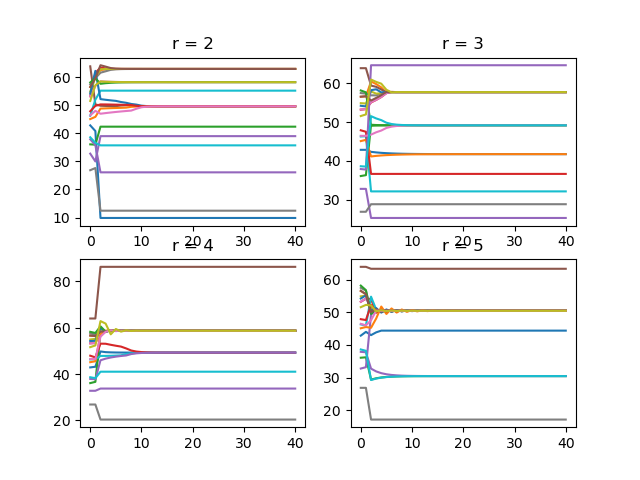
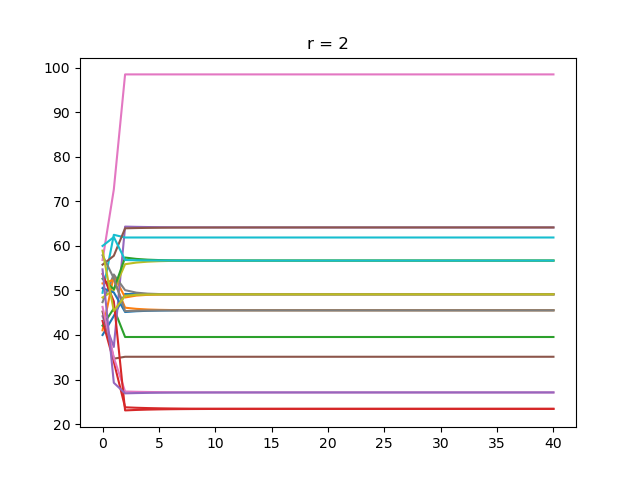
update

diff --git a/simulation_switch_topology.py b/simulation_switch_topology.py
@@ -24,126 +24,37 @@ import os, time, random
 
 
 
-def simulation_pic12(k = 40,n = 20,r = 2,delta = 1):
+def simulation_pic12(k = 40,n = 20,r = 2,delta = 0,save = True):
 
     X = np.arange(0, k + 1)
     Y = []
-    m = MAS_switch_topology(delta=0, number=n, r=r)
-
-    figure, ax = plt.subplots(2, 2)
-
-    Y.append(m.states.tolist())
-    for i in trange(0, k):
-        m.states_update()
-        Y.append(m.states.tolist())
-    Y = np.array(Y).T
-    ax[0][0].set_title('r = 2')
-    for i in range(0, n):
-        ax[0][0].plot(X, Y[i])
+    m = MAS_switch_topology(delta=delta, number=n, r=r)
+    m.initial_states =np.array([41.8309021  ,57.64950439 ,55.37732576 ,59.20001792, 57.7233624,  40.33882689,
+ 57.84884924, 48.73382393, 42.93908053 ,53.11672422, 56.06069219, 40.12895605,
+ 44.62407166, 47.55277699, 50.61738483, 40.01444508, 56.25899311, 49.84214835,
+ 50.72414305 ,41.86621181])
     m.reset()
-    Y = []
-
-    m.r = 3
-
-    Y.append(m.states.tolist())
-    for i in trange(0, k):
-        m.states_update()
-        Y.append(m.states.tolist())
-    Y = np.array(Y).T
-    ax[0][1].set_title('r = 3')
-    for i in range(0, n):
-        ax[0][1].plot(X, Y[i])
-    m.reset()
-    Y = []
-
     m.r = 4
+    convergence = 0
 
     Y.append(m.states.tolist())
     for i in trange(0, k):
         m.states_update()
         Y.append(m.states.tolist())
+        if m.convergence():
+            convergence = i
     Y = np.array(Y).T
-    ax[1][0].set_title('r = 4')
+   # plt.title('r = 2')
     for i in range(0, n):
-        ax[1][0].plot(X, Y[i])
-    m.reset()
-    Y = []
+        plt.plot(X, Y[i])
 
-    m.r = 5
-
-    Y.append(m.states.tolist())
-    for i in trange(0, k):
-        m.states_update()
-        Y.append(m.states.tolist())
-    Y = np.array(Y).T
-    ax[1][1].set_title('r = 5')
-    for i in range(0, n):
-        ax[1][1].plot(X, Y[i])
-    m.reset()
-    Y = []
-
-    plt.savefig('figure2/simulation1')
-    plt.show()
+    plt.vlines(convergence, 40, 60)
 
 
-    X = np.arange(0, k + 1)
-    Y = []
-    m.update_delta(delta=delta)
-    m.r = 2
 
-    figure, ax = plt.subplots(2, 2)
+    if save:
+        plt.savefig('figure2/simulation2b')
 
-    Y.append(m.states.tolist())
-    for i in trange(0, k):
-        m.states_update()
-        Y.append(m.states.tolist())
-    Y = np.array(Y).T
-    ax[0][0].set_title('r = 2')
-    for i in range(0, n):
-        ax[0][0].plot(X, Y[i])
-    m.reset()
-    Y = []
-
-    m.r = 3
-
-    Y.append(m.states.tolist())
-    for i in trange(0, k):
-        m.states_update()
-        Y.append(m.states.tolist())
-    Y = np.array(Y).T
-    ax[0][1].set_title('r = 3')
-    for i in range(0, n):
-        ax[0][1].plot(X, Y[i])
-    m.reset()
-    Y = []
-
-    m.r = 4
-
-    Y.append(m.states.tolist())
-    for i in trange(0, k):
-        m.states_update()
-        Y.append(m.states.tolist())
-    Y = np.array(Y).T
-    ax[1][0].set_title('r = 4')
-    for i in range(0, n):
-        ax[1][0].plot(X, Y[i])
-    m.reset()
-    Y = []
-
-    m.r = 5
-
-    Y.append(m.states.tolist())
-    for i in trange(0, k):
-        m.states_update()
-        Y.append(m.states.tolist())
-    Y = np.array(Y).T
-    ax[1][1].set_title('r = 5')
-    for i in range(0, n):
-        ax[1][1].plot(X, Y[i])
-    m.reset()
-    Y = []
-
-    plt.savefig('figure2/simulation2')
     plt.show()
 
 def simulation_pic3b(precision=30, ave_n=200):
@@ -170,7 +81,7 @@ def simulation_pic3b(precision=30, ave_n=200):
     plt.show()
 
 
-def simulation_pic4a(k = 10000,repeat = 25):
+def simulation_pic4a(k = 10000,repeat = 25,save = True):
 
 
     convergence = 0
@@ -207,7 +118,10 @@ def simulation_pic4a(k = 10000,repeat = 25):
     ax.set_ylabel('$Var(θ∞)$')
     plt.scatter(x, y, s=80, facecolors='none', edgecolors='black')
     plt.grid()
-    plt.savefig('figure2/simulation3.jpg')
+    if save:
+        plt.savefig('figure2/simulation3.jpg')
+
+
 
     plt.show()
 
@@ -327,7 +241,7 @@ if __name__ == "__main__":
     print("----Start----")
 
 
-    simulation_7()
+    simulation_pic12(k =10,delta=0.1,save=False)
 
 
 

diff --git a/MAS_switch_topology.py b/MAS_switch_topology.py
@@ -22,6 +22,15 @@ from tqdm import trange
 from sklearn.cluster import DBSCAN
 from collections import Counter
 
+
+def normalization(data):
+    _range = np.max(data) - np.min(data)
+    if _range>1:
+        return (data) / _range
+    else:
+        return data
+
+
 def connected_gragh_generated(states,r,number):
     """
 
@@ -60,15 +69,21 @@ def eta_generated(b, number):
     for i in range(0, number):
         eta[i] = np.random.laplace(0, b[i], 1)
 
+    # eta = normalization(eta)
+
     return eta
 
 
+
+
 class MAS_switch_topology(object):
-    def __init__(self, r = 2,number=50, states=(50, 100), delta=1, epsilon=0.1, p_connect=0.1, s=1, alpha=0.000001):
+    def __init__(self, r = 2,number=20, states=(50, 100), delta=1, epsilon=0.1, p_connect=0.1, s=1, alpha=0.000001):
         self.number = number
-        self.r = r
-        self.states = np.random.normal(states[0], np.sqrt(states[1]), number)
+
+        self.states = np.random.uniform(40,60,self.number)
+        # self.states = np.linspace(40, 60, self.number)
         self.initial_states = self.states
+        self.r = self.suitable_r()
         self.delta = delta
         self.epsilon = epsilon * np.ones((number, 1))
         self.A_matrix = connected_gragh_generated(self.states,self.r,self.number)
@@ -83,8 +98,17 @@ class MAS_switch_topology(object):
         self.b = np.multiply(self.c, self.q ** self.k)
         self.eta = eta_generated(self.b, self.number)
         self.d_max = np.max(self.D_matrix)
-        self.h = random.uniform(0, 1 / self.d_max)
+        self.h = 1 / self.d_max
         self.initial_avg = self.average_value()
+
+    def suitable_r(self):
+        states = np.sort(self.initial_states)
+        min = 0
+
+        for i in range(0,self.number-2):
+            if states[i+1]-states[i]>min:
+                min = states[i+1]-states[i]
+        return min+1
 
     def update_delta(self,delta):
         self.delta = delta
@@ -133,7 +157,7 @@ class MAS_switch_topology(object):
     def states_update(self):
 
         self.states = self.states - self.h * np.dot(self.L_matrix, self.states + self.eta) + np.dot(self.S_matrix,self.eta)
-        self.b = np.multiply(self.c, self.q ** self.k)
+        self.b = np.multiply(self.c, self.q ** (self.k**4))
         self.eta = eta_generated(self.b, self.number)
         self.A_matrix = connected_gragh_generated(self.states, self.r,self.number)
         self.D_matrix = D_matrix_generated(self.A_matrix, self.number)
@@ -263,9 +287,17 @@ if __name__ == "__main__":
     print("----Start----")
 
     m = MAS_switch_topology()
+    print(m.eta)
+    m.states_update()
+    print(m.eta)
+    m.states_update()
+    print(m.eta)
+    m.states_update()
+    print(m.eta)
+    m.states_update()
 
 
-    print(m.setting_time())
+    print(m.suitable_r())
 
 
 

diff --git a/simulation.py b/simulation.py
@@ -76,7 +76,7 @@ def simulation_pic3b(precision=200, ave_n=200,save = True):
 
     plt.show()
 
-def simulation_pic4a(k = 100,repeat = 25):
+def simulation_pic4a(k = 100,repeat = 25,thresold = 0.01,save = True):
 
 
     convergence = 0
@@ -92,23 +92,31 @@ def simulation_pic4a(k = 100,repeat = 25):
             m.q = np.zeros(m.number)
             for i in range(0, k):
                 m.states_update()
-                if m.convergence(thresold=0.01) and convergence == 0:
+                if m.convergence(thresold=thresold) and convergence == 0:
                     diff = abs(m.average_value() - m.initial_states.mean())
-                    print(diff)
+
                     y.append(diff)
                     x.append(e)
                     convergence = 0
                     break
 
 
-    fig, ax = plt.subplots()
-    ax.set_xscale("log")
-    ax.set_yscale("log")
-    ax.set_xlabel('$\overline{\epsilon}$')
-    ax.set_ylabel('$θ∞-Ave(θ0)$')
-    plt.scatter(x, y, s=80, facecolors='none', edgecolors='black')
+
+    plt.figure(figsize=(10, 3))
+    plt.ylim(1e-4,1e2)
+
+    plt.xlabel('$\overline{\epsilon}$')
+    plt.ylabel('$θ∞-Ave(θ0)$')
+    plt.xscale("log")
+    plt.yscale("log")
+
+
     plt.grid()
-    plt.savefig('figure/simulation3.jpg')
+    plt.scatter(x, y, s=80, facecolors='none', edgecolors='black')
+
+    if save:
+        plt.savefig('figure/simulation3.jpg')
+
 
     plt.show()
 
@@ -221,7 +229,7 @@ def simulation_pic5():
 
 if __name__ == "__main__":
     print("----Start----")
-    simulation_pic3a()
+    simulation_pic4a()
 
 
 
